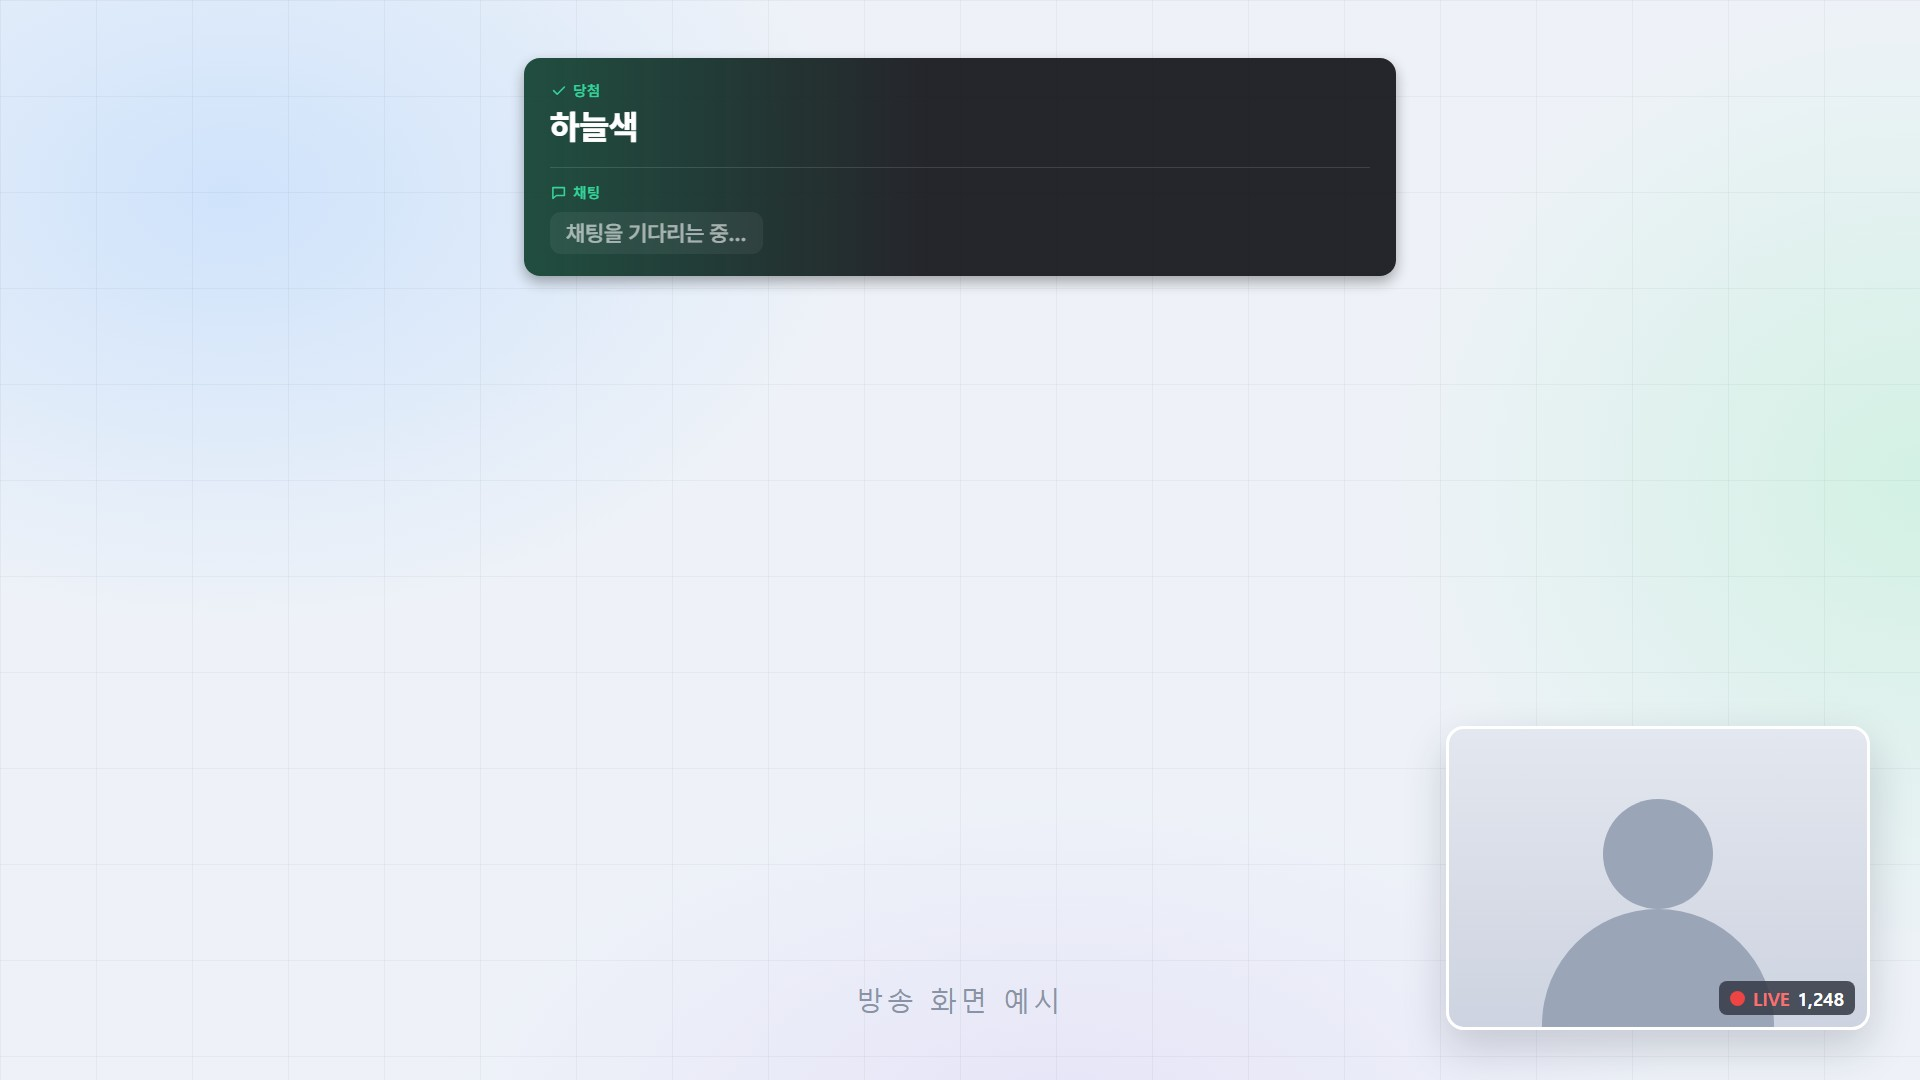
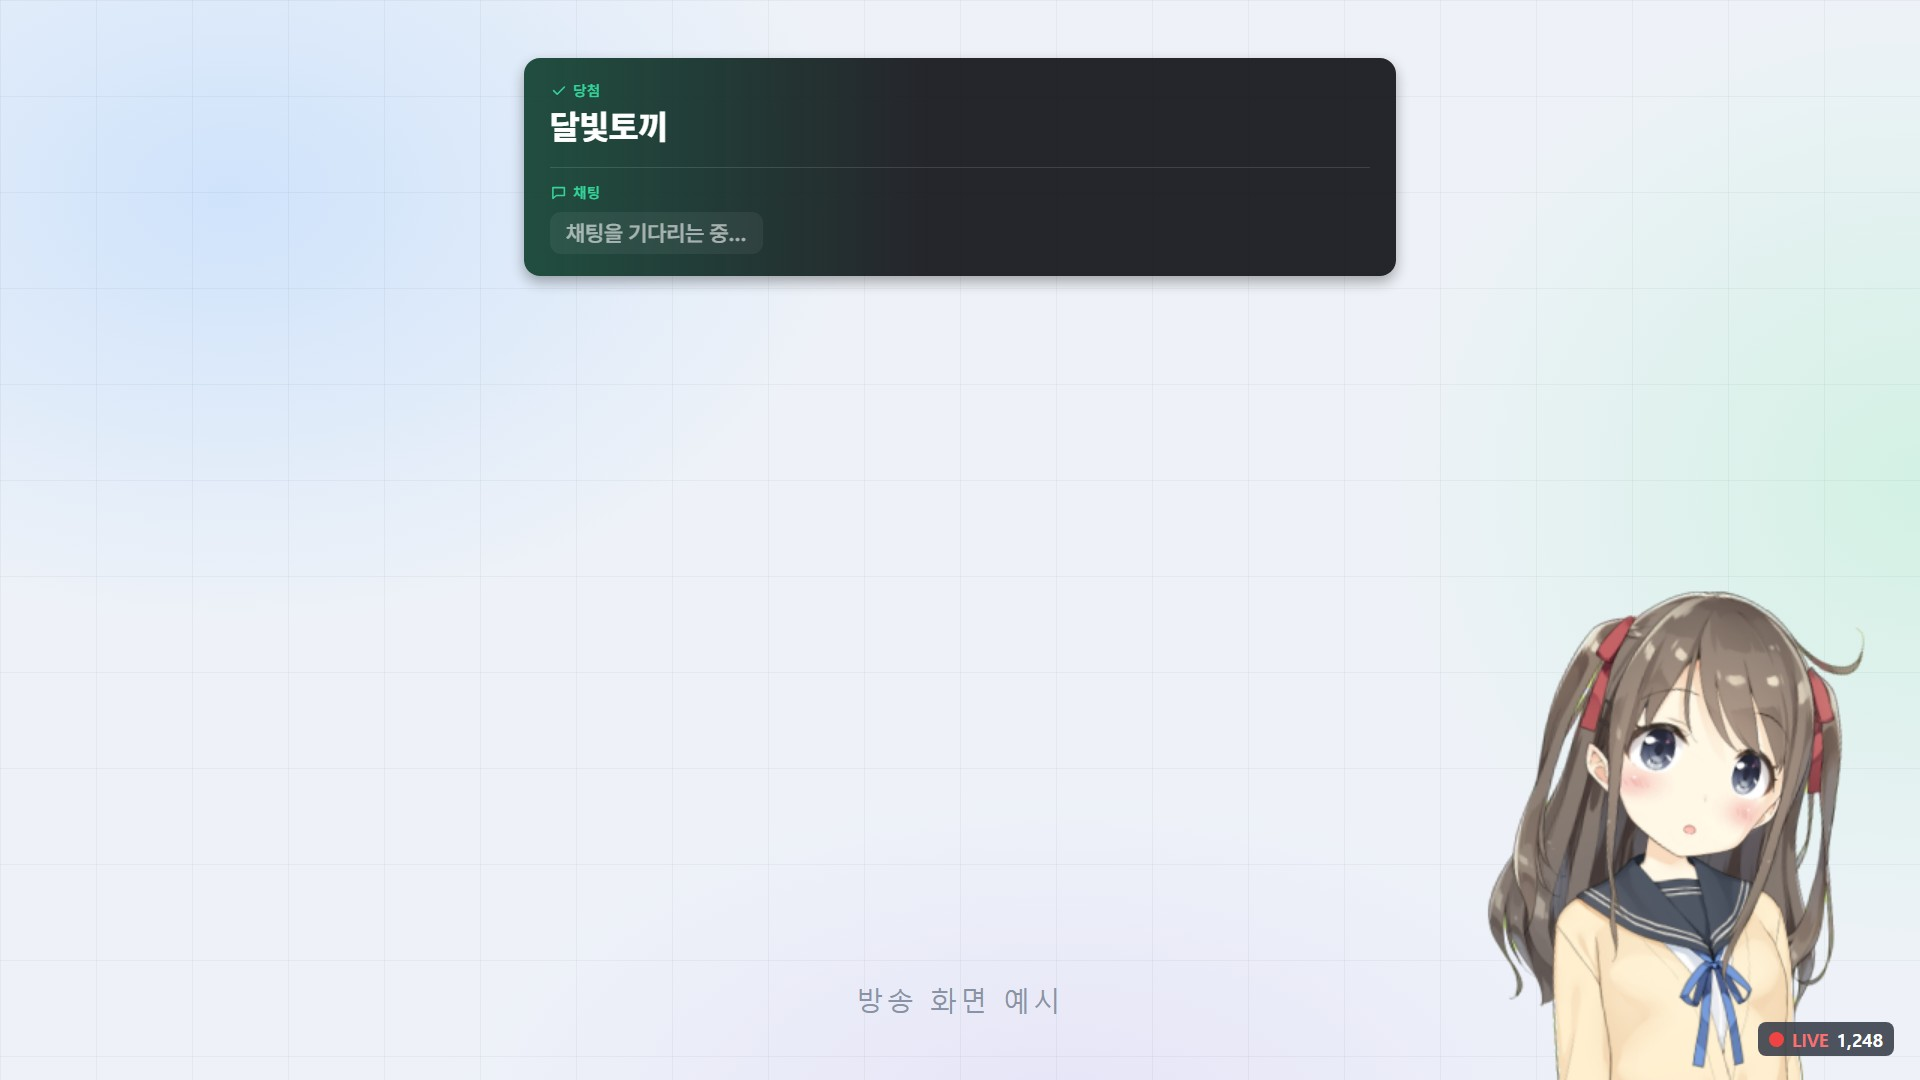
2.4.0 반영 준비: 방송 화면 예시에 버튜버 아바타, 홈 첫 화면 합성 그림
- 가이드의 방송 화면 예시 4장(투표·추첨·당첨자 채팅·시간): 회색 사람 그림 대신 버튜버 아바타.
  크기는 치지직 버튜버 방송 15장에서 잰 값을 따름(오른쪽 아래 상반신, 화면 높이의 45%쯤)
- 홈 "방송 화면에 이렇게 뜹니다" 그림을 새 오버레이로 다시 만듦(overlay-3d-v10.webp).
  아바타는 직접 찍은 TITS 사진에서 오려 넣음. 옛 그림(v9)은 밖에서 끌어다 쓰는 글이 있을 수 있어 남겨 둠
- 룰렛 가이드 그림·기능 창 돌림판 그림 다시 찍음

Changed region(s): [[0.75, 0.55, 1.0, 1.0], [0.2812, 0.0917, 0.3438, 0.1528]]

diff --git a/index.html b/index.html
@@ -533,7 +533,7 @@
     <div class="screens">
       <div class="scr reveal">
         <div class="txt"><b>방송 화면에 이렇게 뜹니다</b><p>OBS 브라우저 소스로 넣는 알림·타이머·카운터·룰렛·채팅·추첨·투표. 시청자는 채팅에 번호만 치면 되고, 결과는 화면과 채팅에 같이 나옵니다. 버튜버라면 TITS로 아바타에 물건도 던집니다.</p></div>
-        <div class="pic"><img src="/img/shots/overlay-3d-v9.webp" width="3180" height="2104" alt="방송 화면 예시(밝은 배경) — 왼쪽 위 후원 알림 카드, 그 아래 라면 타이머, 왼쪽 아래 채팅 오버레이 8줄, 가운데 7연차 후원 룰렛과 결과, 오른쪽에 추첨 15명·데스 카운터·투표, 오른쪽 아래 캠에 TITS로 던진 사과·바나나" loading="lazy"></div>
+        <div class="pic"><img src="/img/shots/overlay-3d-v10.webp" width="3180" height="2104" alt="방송 화면 예시(밝은 배경) — 왼쪽 위 후원 알림 카드, 그 아래 투표, 왼쪽 아래 채팅 오버레이 7줄, 가운데 7연차 후원 룰렛과 결과, 오른쪽에 추첨 15명·라면 타이머·데스 카운터, 오른쪽 아래 버튜버 아바타에 TITS로 던진 사과·바나나" loading="lazy"></div>
       </div>
       <div class="scr rev reveal">
         <div class="txt"><b>기능 창에서 버튼으로</b><p>투표·추첨·돌림판·후원 룰렛, 카운터·타이머·스톱워치, 채팅·알림 오버레이, 신청곡, TTS·TITS를 한 창에서 다룹니다. 명령어를 외울 것이 없고, 각 화면의 URL을 OBS에 한 번 넣으면 끝입니다.</p></div>
